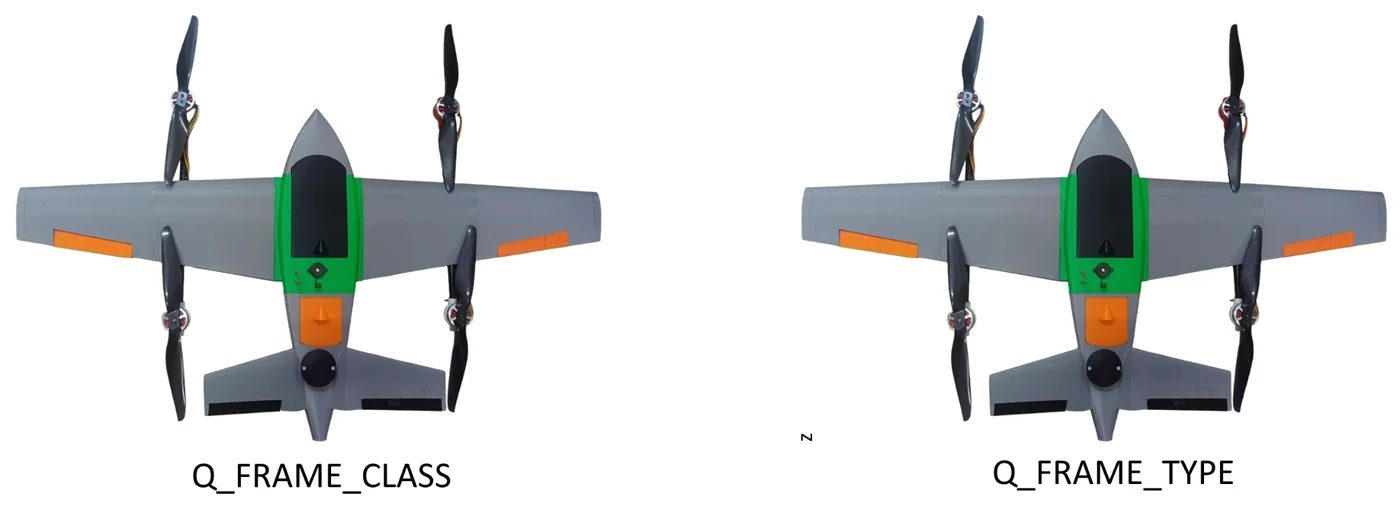
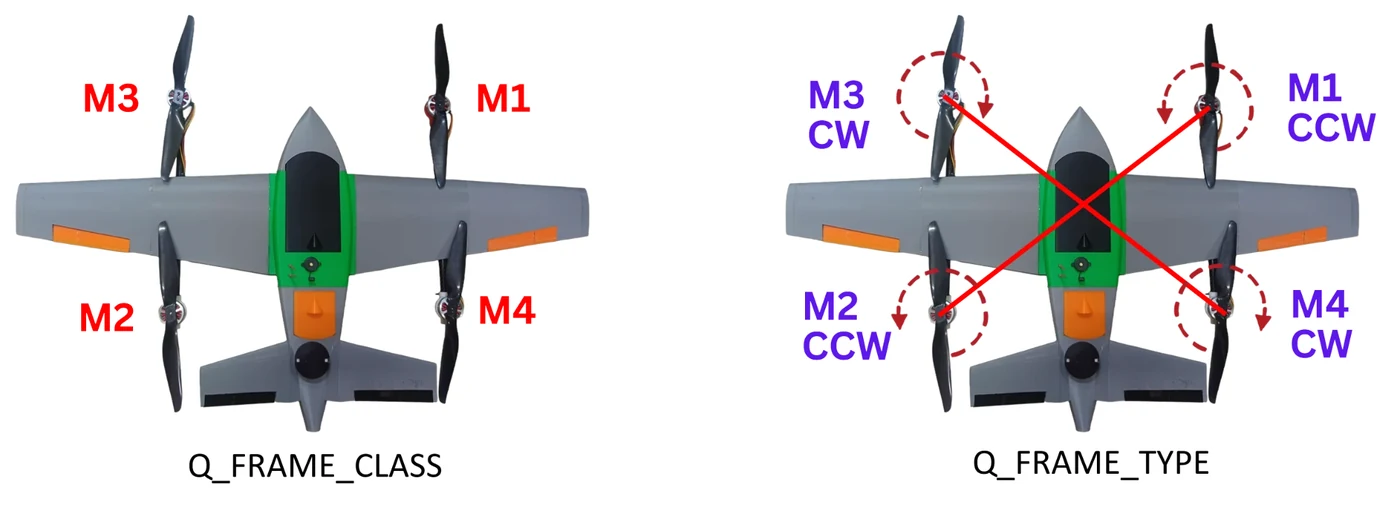
Replace QuadPlane frame figure with labelled motor layout

diff --git a/research.html b/research.html
@@ -93,8 +93,8 @@
               <figure class="slide" data-caption="The assembled QuadPlane: 3D-printed fuselage and wings with four lift motors.">
                 <img src="assets/figures/vtol/vtol-airframe.webp" width="1400" height="1050" loading="lazy" alt="Top view of the assembled hybrid VTOL drone">
               </figure>
-              <figure class="slide" data-caption="QuadPlane frame class and type set in ArduPlane to match the motor layout.">
-                <img src="assets/figures/vtol/quadplane-frame.webp" width="1400" height="519" loading="lazy" alt="Two views of the VTOL labelled Q_FRAME_CLASS and Q_FRAME_TYPE">
+              <figure class="slide" data-caption="Motor order and spin directions for the QuadPlane frame class and type in ArduPlane.">
+                <img src="assets/figures/vtol/quadplane-frame.webp?v=2" width="1400" height="508" loading="lazy" alt="VTOL top views labelling motors M1 to M4 with their clockwise and counter-clockwise spin directions">
               </figure>
               <figure class="slide" data-caption="Wing section in CAD with the carbon rod mount and the servo motor mount.">
                 <img src="assets/figures/vtol/wing-cad.webp" width="1400" height="876" loading="lazy" alt="CAD bottom and side views of a wing section with rod and servo mounts">
